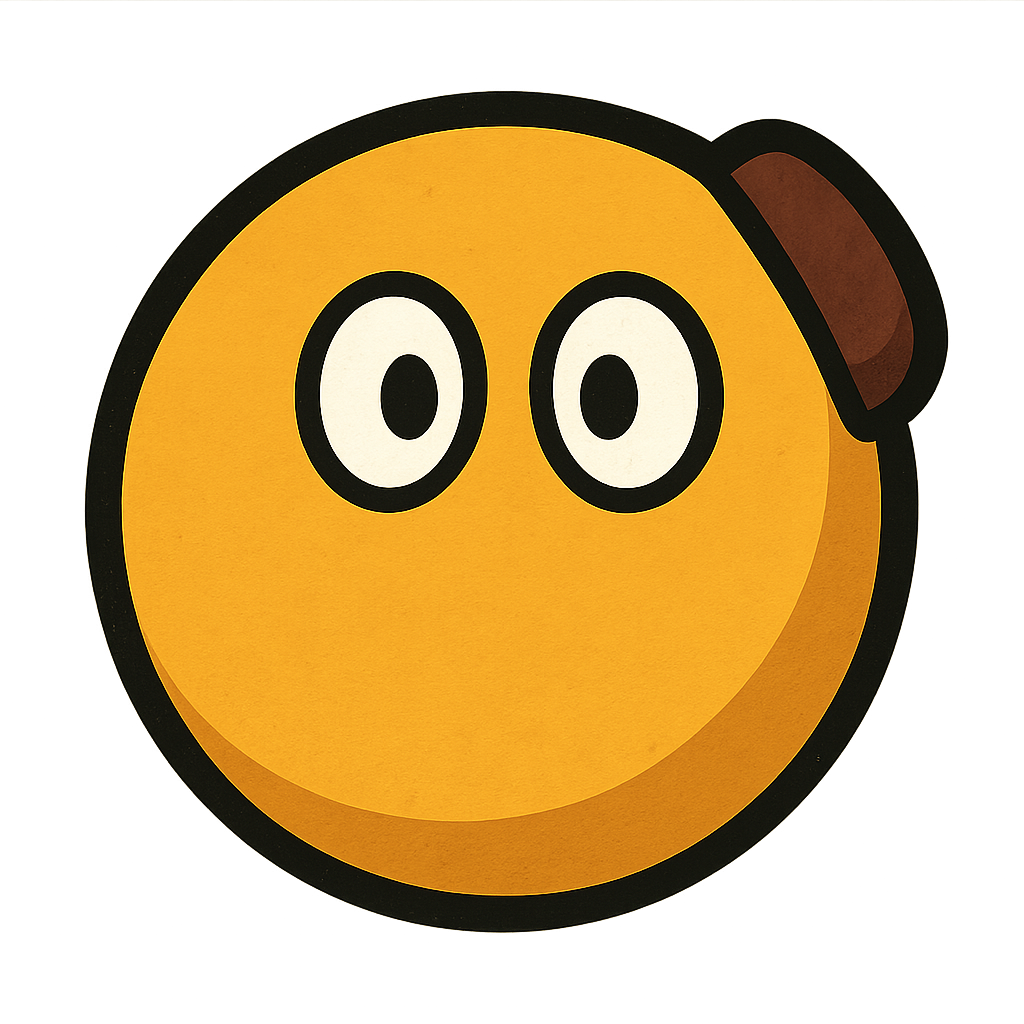
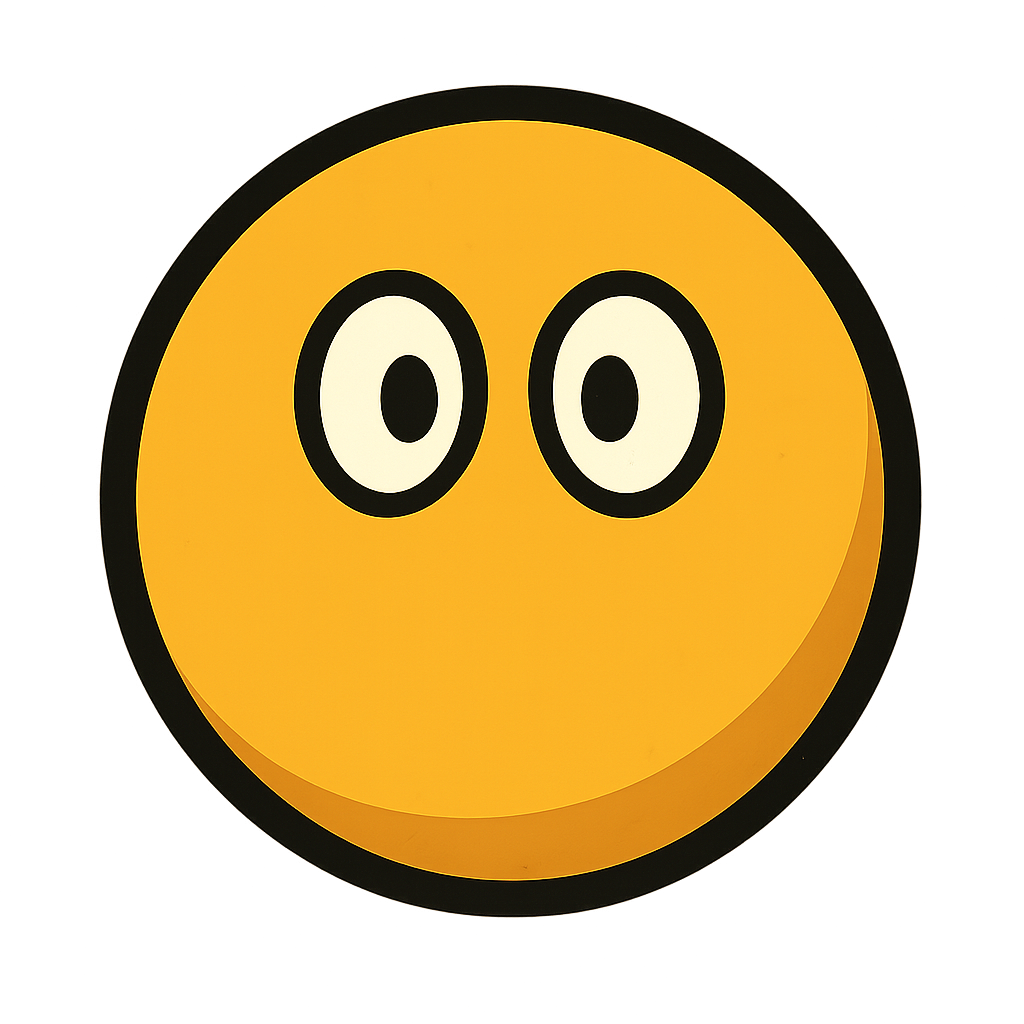
player skin added

diff --git a/public/client.js b/public/client.js
@@ -54,6 +54,16 @@ document.addEventListener('keydown', (e) => {
         return;
     }
     
+    // Handle skin change keys (1, 2, 3)
+    if (e.key >= '1' && e.key <= '3') {
+        const skinIndex = parseInt(e.key) - 1;
+        const skinName = availableSkins[skinIndex];
+        if (skinName) {
+            socket.emit('changeSkin', skinName);
+        }
+        return;
+    }
+    
     // Handle movement keys
     const key = e.key.toLowerCase();
     if (keyMap[key] && !input[keyMap[key]]) {
@@ -220,12 +230,23 @@ function drawGrid(playerX, playerY) {
 }
 
 
-// Load player image
-const playerImg = new Image();
-playerImg.src = 'player.png';
+// Player image cache system
+const playerImages = {};
+const availableSkins = ['player.png', 'player2.png', 'player3.png'];
+
+// Load all available skins
+availableSkins.forEach(skin => {
+    const img = new Image();
+    img.src = skin;
+    playerImages[skin] = img;
+});
 
 function isImageLoaded(img) {
-    return img.complete && img.naturalWidth !== 0;
+    return img.complete && img.naturalHeight !== 0;
+}
+
+function getPlayerImage(skinName) {
+    return playerImages[skinName] || playerImages['player.png'];
 }
 
 function drawProjectiles(worldPlayerX, worldPlayerY) {
@@ -261,7 +282,8 @@ function drawProjectiles(worldPlayerX, worldPlayerY) {
 }
 
 function drawPlayers() {
-    if (!isImageLoaded(playerImg)) return; // Wait for image to load
+    // Wait for at least the default image to load
+    if (!isImageLoaded(playerImages['player.png'])) return;
     const size = 64; // 64x64 pixels
     const half = size / 2;
     // Centered player position
@@ -285,20 +307,28 @@ function drawPlayers() {
     }
     // Draw other players
     otherPlayers.forEach(p => {
+        const img = getPlayerImage(p.skin);
+        if (!isImageLoaded(img)) return; // Skip if skin not loaded yet
+        
         ctx.save();
         // Offset other players relative to centered player
         ctx.translate(CENTER_X + (p.x - worldPlayerX), CENTER_Y + (p.y - worldPlayerY));
         // Use the angle provided by the server for each player
         ctx.rotate(p.angle || 0);
-        ctx.drawImage(playerImg, -half, -half, size, size);
+        ctx.drawImage(img, -half, -half, size, size);
         ctx.restore();
     });
     // Draw local player always at center
-    ctx.save();
-    ctx.translate(CENTER_X, CENTER_Y);
-    ctx.rotate(playerAngle);
-    ctx.drawImage(playerImg, -half, -half, size, size);
-    ctx.restore();
+    if (localPlayer) {
+        const img = getPlayerImage(localPlayer.skin);
+        if (isImageLoaded(img)) {
+            ctx.save();
+            ctx.translate(CENTER_X, CENTER_Y);
+            ctx.rotate(playerAngle);
+            ctx.drawImage(img, -half, -half, size, size);
+            ctx.restore();
+        }
+    }
 }
 
 function drawAmmoUI() {
@@ -313,7 +343,7 @@ function drawAmmoUI() {
     
     // Position UI in bottom right corner
     const x = WORLD_WIDTH - 150;
-    const y = WORLD_HEIGHT - 60;
+    const y = WORLD_HEIGHT - 80;
     
     // Current ammo / capacity
     const ammoText = `${weapon.currentAmmo} / ${weapon.projectileCapacity}`;
@@ -337,6 +367,41 @@ function drawAmmoUI() {
         ctx.strokeText(emptyText, x, y + 40);
         ctx.fillText(emptyText, x, y + 40);
     }
+    
+    // Skin info
+    ctx.fillStyle = 'white';
+    ctx.font = '12px Arial';
+    const skinText = `Skin: ${localPlayer.skin}`;
+    ctx.strokeText(skinText, x, y + 60);
+    ctx.fillText(skinText, x, y + 60);
+    
+    ctx.restore();
+}
+
+function drawControls() {
+    ctx.save();
+    ctx.fillStyle = 'white';
+    ctx.strokeStyle = 'black';
+    ctx.lineWidth = 1;
+    ctx.font = '12px Arial';
+    
+    // Position controls in top left corner
+    const x = 10;
+    let y = 30;
+    
+    const controls = [
+        'WASD: Move',
+        'Mouse: Aim',
+        'Click: Shoot',
+        'R: Reload',
+        '1-3: Change Skin'
+    ];
+    
+    controls.forEach(control => {
+        ctx.strokeText(control, x, y);
+        ctx.fillText(control, x, y);
+        y += 15;
+    });
     
     ctx.restore();
 }
@@ -395,13 +460,14 @@ function gameLoop() {
     ctx.clearRect(0, 0, WORLD_WIDTH, WORLD_HEIGHT);
     drawPlayers();
     drawAmmoUI();
+    drawControls();
     requestAnimationFrame(gameLoop);
 }
 
-if (isImageLoaded(playerImg)) {
+if (isImageLoaded(playerImages['player.png'])) {
     gameLoop();
 } else {
-    playerImg.onload = () => gameLoop();
+    playerImages['player.png'].onload = () => gameLoop();
 }
 
 // Socket events (stub)

diff --git a/models/Player.js b/models/Player.js
@@ -6,6 +6,9 @@ class Player {
     constructor(id, name, world) {
         this.id = id; // socket.id
         this.name = name || `Player_${id.substring(0, 4)}`;
+        // Randomly assign a starting skin
+        const availableSkins = ['player.png', 'player2.png', 'player3.png'];
+        this.skin = availableSkins[Math.floor(Math.random() * availableSkins.length)];
         this.health = 100;
         this.maxHealth = 100;
         this.x = Math.random() * 700 + 50; // spawn within bounds
@@ -16,7 +19,7 @@ class Player {
         this.damageDealt = 0;
         // Inventory system
         this.inventory = [];
-        this.maxInventorySlots = 20;
+        this.maxInventorySlots = 6;
         this.equippedWeapon = null;
         // Create a Matter.js body for the player
         this.body = Matter.Bodies.circle(this.x, this.y, 32, { frictionAir: 0.18, label: 'player' });
@@ -99,6 +102,16 @@ class Player {
     
     removeBody() {
         Matter.World.remove(require('../physics').world, this.body);
+    }
+    
+    setSkin(skinName) {
+        // Validate skin name to prevent path traversal
+        const validSkins = ['player.png', 'player2.png', 'player3.png'];
+        if (validSkins.includes(skinName)) {
+            this.skin = skinName;
+            return true;
+        }
+        return false;
     }
 }
 

diff --git a/server.js b/server.js
@@ -43,6 +43,7 @@ function serializePlayer(player) {
     return {
         id: player.id,
         name: player.name,
+        skin: player.skin,
         health: player.health,
         maxHealth: player.maxHealth,
         x: player.x,
@@ -228,6 +229,15 @@ io.on('connection', (socket) => {
         const player = players[socket.id];
         if (player && player.equippedWeapon) {
             player.equippedWeapon.startReload();
+        }
+    });
+    
+    socket.on('changeSkin', (skinName) => {
+        const player = players[socket.id];
+        if (player && player.setSkin(skinName)) {
+            // Notify all clients of the updated player
+            const serializablePlayers = Object.values(players).map(serializePlayer);
+            io.emit('playersUpdate', serializablePlayers);
         }
     });
 
